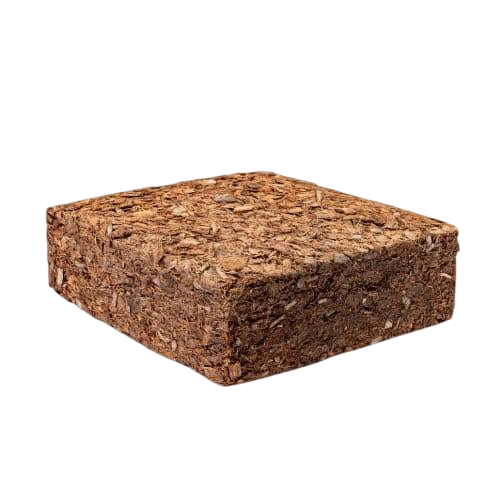
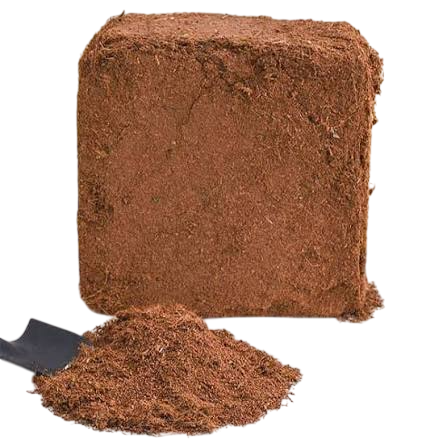
Update 3rd carousel image for 5kg Coir Husk Chips Block

diff --git a/src/content.js b/src/content.js
@@ -176,7 +176,7 @@ export const products = [
     images: [
       getAsset('products/coir-husk-chips-5kg.png'),
       getAsset('products/coir-husk-chips-block.png'),
-      getAsset('products/coir-husk-chips-top.png'),
+      getAsset('products/coir-husk-chips-loose.png'),
     ],
     text: 'Compressed 5kg husk chips block delivering superior aeration and drainage for hydroponic and greenhouse crops. Cut from mature coconut husks into uniform cubical chips that resist compaction and maintain open air pores.',
     longDescription: [
